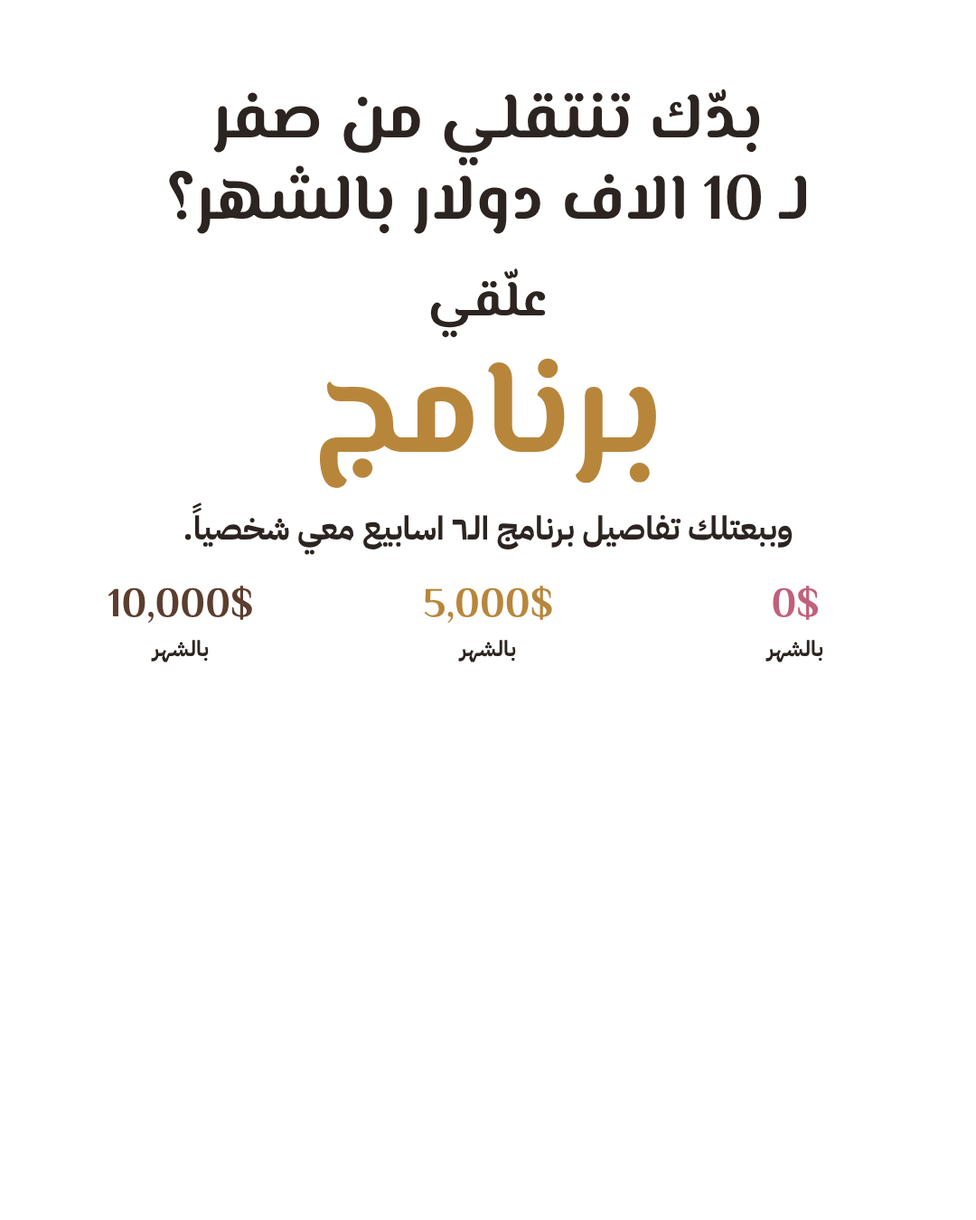
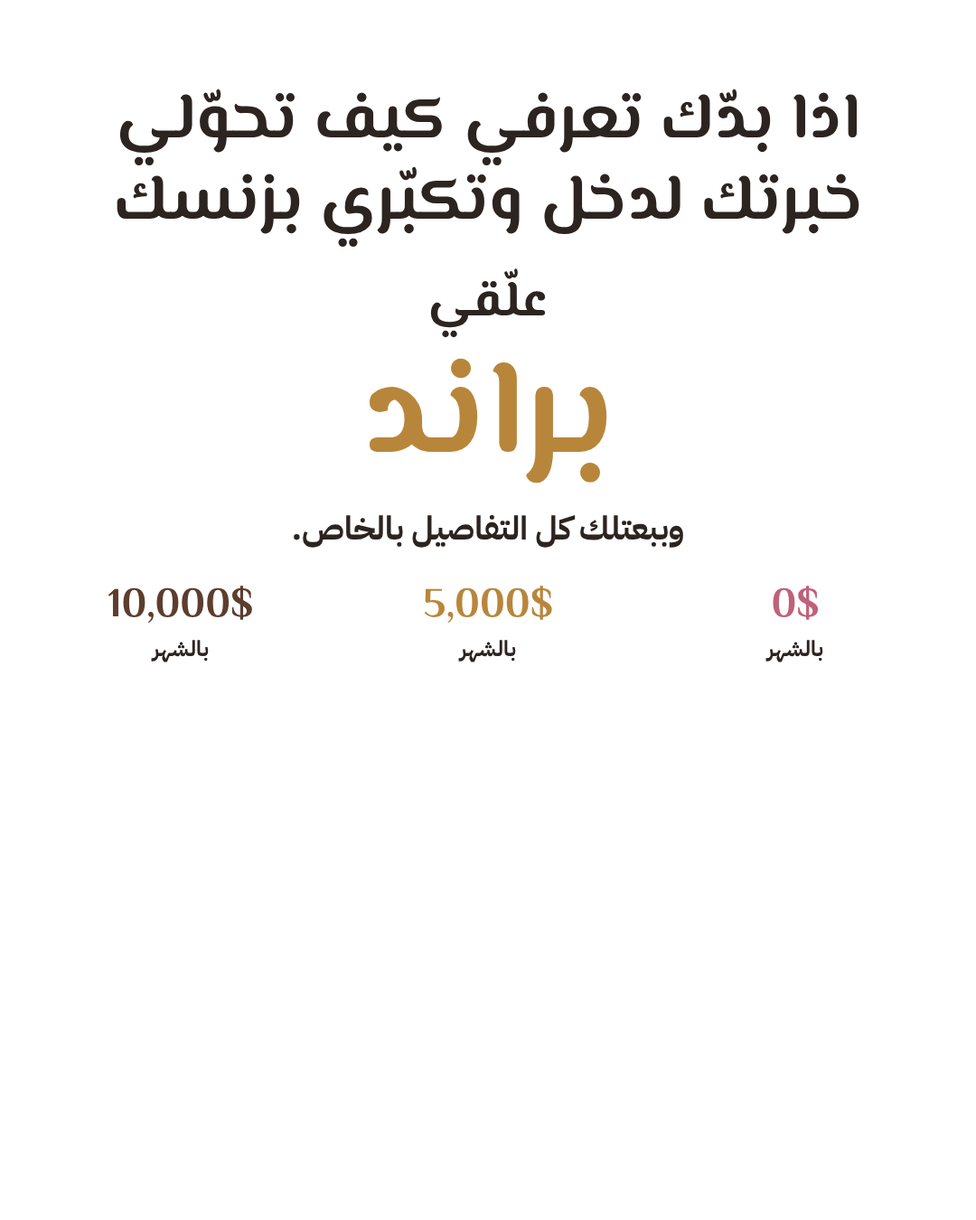
Carousel 02: new CTA with keyword براند
Claude-Session: https://claude.ai/code/session_01Q3F4hydPDiJyjfKYRyCC3U

Changed region(s): [[0.1222, 0.0622, 0.8861, 0.2178], [0.1833, 0.28, 0.825, 0.4667]]

diff --git a/carousels/02-0-5k-10k/empty/carousel.html b/carousels/02-0-5k-10k/empty/carousel.html
@@ -21,4 +21,4 @@ h1.big{font-size:100px}
 .cta1{font-size:72px}.cta2{font-family:M;font-size:56px;margin-top:22px}.kw{font-family:M;font-size:150px;color:#B8863B;line-height:1.15}
 .cta3{font-weight:700;font-size:36px;margin-top:6px}.sm{margin-top:34px}.sm .amt{font-size:46px}.sm .pm{font-size:24px}
 .cta .ppl{height:470px}
-.p img,.p b{display:none!important}</style></head><body><section class="slide cover"><h1 class="big">الفرق كلّه هون…</h1><div class="cols heads"><div class="col"><div class="amt" style="color:#C0607A">0$</div><div class="pm">بالشهر</div><i style=background:#C0607A></i></div><div class="col"><div class="amt" style="color:#B8863B">5,000$</div><div class="pm">بالشهر</div><i style=background:#B8863B></i></div><div class="col"><div class="amt" style="color:#5C3D2E">10,000$</div><div class="pm">بالشهر</div><i style=background:#5C3D2E></i></div></div><div class="cols arrows"><svg viewBox="0 0 120 110"><path d="M110 18 C70 2 25 15 22 85" fill="none" stroke="#C0607A" stroke-width="7" stroke-linecap="round"/><path d="M6 66 L22 92 L40 68" fill="none" stroke="#C0607A" stroke-width="7" stroke-linecap="round" stroke-linejoin="round"/></svg><svg viewBox="0 0 120 110"><path d="M110 18 C70 2 25 15 22 85" fill="none" stroke="#B8863B" stroke-width="7" stroke-linecap="round"/><path d="M6 66 L22 92 L40 68" fill="none" stroke="#B8863B" stroke-width="7" stroke-linecap="round" stroke-linejoin="round"/></svg><svg viewBox="0 0 120 110"><path d="M110 18 C70 2 25 15 22 85" fill="none" stroke="#5C3D2E" stroke-width="7" stroke-linecap="round"/><path d="M6 66 L22 92 L40 68" fill="none" stroke="#5C3D2E" stroke-width="7" stroke-linecap="round" stroke-linejoin="round"/></svg></div><div class="cols ppl"><div class="p"><b style="background:#F4DDE3"></b><img src="photos/tier0.png"></div><div class="p"><b style="background:#F2E4CD"></b><img src="photos/tier5k.png"></div><div class="p"><b style="background:#E8DCD4"></b><img class="big10" src="photos/tier10k.png"></div></div><p class="foot">اسحبي لتشوفي كيف بتفكّر كل وحدة ←</p></section><section class="slide row"><h1>العرض</h1><div class="cols heads"><div class="col"><div class="amt" style="color:#C0607A">0$</div><div class="pm">بالشهر</div><i style=background:#C0607A></i></div><div class="col"><div class="amt" style="color:#B8863B">5,000$</div><div class="pm">بالشهر</div><i style=background:#B8863B></i></div><div class="col"><div class="amt" style="color:#5C3D2E">10,000$</div><div class="pm">بالشهر</div><i style=background:#5C3D2E></i></div></div><div class="cols q"><p>بقدّم كل شي ببلاش، وبستحي احكي عن السعر.</p><p>عندي عرض واحد واضح لمشكلة وحدة.</p><p>عندي برنامج بنتيجة واضحة وسعر ما بعتذر عنه.</p></div><div class="cols ppl"><div class="p"><b style="background:#F4DDE3"></b><img src="photos/tier0.png"></div><div class="p"><b style="background:#F2E4CD"></b><img src="photos/tier5k.png"></div><div class="p"><b style="background:#E8DCD4"></b><img class="big10" src="photos/tier10k.png"></div></div></section><section class="slide row"><h1>المحتوى</h1><div class="cols heads"><div class="col"><div class="amt" style="color:#C0607A">0$</div><div class="pm">بالشهر</div><i style=background:#C0607A></i></div><div class="col"><div class="amt" style="color:#B8863B">5,000$</div><div class="pm">بالشهر</div><i style=background:#B8863B></i></div><div class="col"><div class="amt" style="color:#5C3D2E">10,000$</div><div class="pm">بالشهر</div><i style=background:#5C3D2E></i></div></div><div class="cols q"><p>بنشر شو ما خطر عبالي، بلا خطة.</p><p>بنشر نصايح بمجالي كل يوم.</p><p>كل منشور الو هدف: متابعة، ثقة، او بيع.</p></div><div class="cols ppl"><div class="p"><b style="background:#F4DDE3"></b><img src="photos/tier0.png"></div><div class="p"><b style="background:#F2E4CD"></b><img src="photos/tier5k.png"></div><div class="p"><b style="background:#E8DCD4"></b><img class="big10" src="photos/tier10k.png"></div></div></section><section class="slide row"><h1>الستوري</h1><div class="cols heads"><div class="col"><div class="amt" style="color:#C0607A">0$</div><div class="pm">بالشهر</div><i style=background:#C0607A></i></div><div class="col"><div class="amt" style="color:#B8863B">5,000$</div><div class="pm">بالشهر</div><i style=background:#B8863B></i></div><div class="col"><div class="amt" style="color:#5C3D2E">10,000$</div><div class="pm">بالشهر</div><i style=background:#5C3D2E></i></div></div><div class="cols q"><p>بنزّل يومياتي وبس.</p><p>بشارك نتايج عميلاتي وبجاوب على الاسئلة.</p><p>نتايج، اسئلة واجوبة، ودعوة للشراء مرتين بالاسبوع على الاقل.</p></div><div class="cols ppl"><div class="p"><b style="background:#F4DDE3"></b><img src="photos/tier0.png"></div><div class="p"><b style="background:#F2E4CD"></b><img src="photos/tier5k.png"></div><div class="p"><b style="background:#E8DCD4"></b><img class="big10" src="photos/tier10k.png"></div></div></section><section class="slide row"><h1>الرسائل بالخاص</h1><div class="cols heads"><div class="col"><div class="amt" style="color:#C0607A">0$</div><div class="pm">بالشهر</div><i style=background:#C0607A></i></div><div class="col"><div class="amt" style="color:#B8863B">5,000$</div><div class="pm">بالشهر</div><i style=background:#B8863B></i></div><div class="col"><div class="amt" style="color:#5C3D2E">10,000$</div><div class="pm">بالشهر</div><i style=background:#5C3D2E></i></div></div><div class="cols q"><p>بستنى الناس يسالوني عن السعر.</p><p>بردّ على كل رسالة بسرعة.</p><p>كلمة بالتعليقات بتفتح محادثة، وكل محادثة الها خطوات لحد البيع.</p></div><div class="cols ppl"><div class="p"><b style="background:#F4DDE3"></b><img src="photos/tier0.png"></div><div class="p"><b style="background:#F2E4CD"></b><img src="photos/tier5k.png"></div><div class="p"><b style="background:#E8DCD4"></b><img class="big10" src="photos/tier10k.png"></div></div></section><section class="slide cta"><h1 class="cta1">بدّك تنتقلي من صفر<br>لـ 10 الاف دولار بالشهر؟</h1><p class="cta2">علّقي</p><p class="kw">برنامج</p><p class="cta3">وببعتلك تفاصيل برنامج الـ٦ اسابيع معي شخصياً.</p><div class="cols heads sm"><div class="col"><div class="amt" style="color:#C0607A">0$</div><div class="pm">بالشهر</div></div><div class="col"><div class="amt" style="color:#B8863B">5,000$</div><div class="pm">بالشهر</div></div><div class="col"><div class="amt" style="color:#5C3D2E">10,000$</div><div class="pm">بالشهر</div></div></div><div class="cols ppl"><div class="p"><b style="background:#F4DDE3"></b><img src="photos/tier0.png"></div><div class="p"><b style="background:#F2E4CD"></b><img src="photos/tier5k.png"></div><div class="p"><b style="background:#E8DCD4"></b><img class="big10" src="photos/tier10k.png"></div></div></section></body></html>
+.p img,.p b{display:none!important}</style></head><body><section class="slide cover"><h1 class="big">الفرق كلّه هون…</h1><div class="cols heads"><div class="col"><div class="amt" style="color:#C0607A">0$</div><div class="pm">بالشهر</div><i style=background:#C0607A></i></div><div class="col"><div class="amt" style="color:#B8863B">5,000$</div><div class="pm">بالشهر</div><i style=background:#B8863B></i></div><div class="col"><div class="amt" style="color:#5C3D2E">10,000$</div><div class="pm">بالشهر</div><i style=background:#5C3D2E></i></div></div><div class="cols arrows"><svg viewBox="0 0 120 110"><path d="M110 18 C70 2 25 15 22 85" fill="none" stroke="#C0607A" stroke-width="7" stroke-linecap="round"/><path d="M6 66 L22 92 L40 68" fill="none" stroke="#C0607A" stroke-width="7" stroke-linecap="round" stroke-linejoin="round"/></svg><svg viewBox="0 0 120 110"><path d="M110 18 C70 2 25 15 22 85" fill="none" stroke="#B8863B" stroke-width="7" stroke-linecap="round"/><path d="M6 66 L22 92 L40 68" fill="none" stroke="#B8863B" stroke-width="7" stroke-linecap="round" stroke-linejoin="round"/></svg><svg viewBox="0 0 120 110"><path d="M110 18 C70 2 25 15 22 85" fill="none" stroke="#5C3D2E" stroke-width="7" stroke-linecap="round"/><path d="M6 66 L22 92 L40 68" fill="none" stroke="#5C3D2E" stroke-width="7" stroke-linecap="round" stroke-linejoin="round"/></svg></div><div class="cols ppl"><div class="p"><b style="background:#F4DDE3"></b><img src="photos/tier0.png"></div><div class="p"><b style="background:#F2E4CD"></b><img src="photos/tier5k.png"></div><div class="p"><b style="background:#E8DCD4"></b><img class="big10" src="photos/tier10k.png"></div></div><p class="foot">اسحبي لتشوفي كيف بتفكّر كل وحدة ←</p></section><section class="slide row"><h1>العرض</h1><div class="cols heads"><div class="col"><div class="amt" style="color:#C0607A">0$</div><div class="pm">بالشهر</div><i style=background:#C0607A></i></div><div class="col"><div class="amt" style="color:#B8863B">5,000$</div><div class="pm">بالشهر</div><i style=background:#B8863B></i></div><div class="col"><div class="amt" style="color:#5C3D2E">10,000$</div><div class="pm">بالشهر</div><i style=background:#5C3D2E></i></div></div><div class="cols q"><p>بقدّم كل شي ببلاش، وبستحي احكي عن السعر.</p><p>عندي عرض واحد واضح لمشكلة وحدة.</p><p>عندي برنامج بنتيجة واضحة وسعر ما بعتذر عنه.</p></div><div class="cols ppl"><div class="p"><b style="background:#F4DDE3"></b><img src="photos/tier0.png"></div><div class="p"><b style="background:#F2E4CD"></b><img src="photos/tier5k.png"></div><div class="p"><b style="background:#E8DCD4"></b><img class="big10" src="photos/tier10k.png"></div></div></section><section class="slide row"><h1>المحتوى</h1><div class="cols heads"><div class="col"><div class="amt" style="color:#C0607A">0$</div><div class="pm">بالشهر</div><i style=background:#C0607A></i></div><div class="col"><div class="amt" style="color:#B8863B">5,000$</div><div class="pm">بالشهر</div><i style=background:#B8863B></i></div><div class="col"><div class="amt" style="color:#5C3D2E">10,000$</div><div class="pm">بالشهر</div><i style=background:#5C3D2E></i></div></div><div class="cols q"><p>بنشر شو ما خطر عبالي، بلا خطة.</p><p>بنشر نصايح بمجالي كل يوم.</p><p>كل منشور الو هدف: متابعة، ثقة، او بيع.</p></div><div class="cols ppl"><div class="p"><b style="background:#F4DDE3"></b><img src="photos/tier0.png"></div><div class="p"><b style="background:#F2E4CD"></b><img src="photos/tier5k.png"></div><div class="p"><b style="background:#E8DCD4"></b><img class="big10" src="photos/tier10k.png"></div></div></section><section class="slide row"><h1>الستوري</h1><div class="cols heads"><div class="col"><div class="amt" style="color:#C0607A">0$</div><div class="pm">بالشهر</div><i style=background:#C0607A></i></div><div class="col"><div class="amt" style="color:#B8863B">5,000$</div><div class="pm">بالشهر</div><i style=background:#B8863B></i></div><div class="col"><div class="amt" style="color:#5C3D2E">10,000$</div><div class="pm">بالشهر</div><i style=background:#5C3D2E></i></div></div><div class="cols q"><p>بنزّل يومياتي وبس.</p><p>بشارك نتايج عميلاتي وبجاوب على الاسئلة.</p><p>نتايج، اسئلة واجوبة، ودعوة للشراء مرتين بالاسبوع على الاقل.</p></div><div class="cols ppl"><div class="p"><b style="background:#F4DDE3"></b><img src="photos/tier0.png"></div><div class="p"><b style="background:#F2E4CD"></b><img src="photos/tier5k.png"></div><div class="p"><b style="background:#E8DCD4"></b><img class="big10" src="photos/tier10k.png"></div></div></section><section class="slide row"><h1>الرسائل بالخاص</h1><div class="cols heads"><div class="col"><div class="amt" style="color:#C0607A">0$</div><div class="pm">بالشهر</div><i style=background:#C0607A></i></div><div class="col"><div class="amt" style="color:#B8863B">5,000$</div><div class="pm">بالشهر</div><i style=background:#B8863B></i></div><div class="col"><div class="amt" style="color:#5C3D2E">10,000$</div><div class="pm">بالشهر</div><i style=background:#5C3D2E></i></div></div><div class="cols q"><p>بستنى الناس يسالوني عن السعر.</p><p>بردّ على كل رسالة بسرعة.</p><p>كلمة بالتعليقات بتفتح محادثة، وكل محادثة الها خطوات لحد البيع.</p></div><div class="cols ppl"><div class="p"><b style="background:#F4DDE3"></b><img src="photos/tier0.png"></div><div class="p"><b style="background:#F2E4CD"></b><img src="photos/tier5k.png"></div><div class="p"><b style="background:#E8DCD4"></b><img class="big10" src="photos/tier10k.png"></div></div></section><section class="slide cta"><h1 class="cta1">اذا بدّك تعرفي كيف تحوّلي<br>خبرتك لدخل وتكبّري بزنسك</h1><p class="cta2">علّقي</p><p class="kw">براند</p><p class="cta3">وببعتلك كل التفاصيل بالخاص.</p><div class="cols heads sm"><div class="col"><div class="amt" style="color:#C0607A">0$</div><div class="pm">بالشهر</div></div><div class="col"><div class="amt" style="color:#B8863B">5,000$</div><div class="pm">بالشهر</div></div><div class="col"><div class="amt" style="color:#5C3D2E">10,000$</div><div class="pm">بالشهر</div></div></div><div class="cols ppl"><div class="p"><b style="background:#F4DDE3"></b><img src="photos/tier0.png"></div><div class="p"><b style="background:#F2E4CD"></b><img src="photos/tier5k.png"></div><div class="p"><b style="background:#E8DCD4"></b><img class="big10" src="photos/tier10k.png"></div></div></section></body></html>

diff --git a/carousels/02-0-5k-10k/carousel.html b/carousels/02-0-5k-10k/carousel.html
@@ -21,4 +21,4 @@ h1.big{font-size:100px}
 .cta1{font-size:72px}.cta2{font-family:M;font-size:56px;margin-top:22px}.kw{font-family:M;font-size:150px;color:#B8863B;line-height:1.15}
 .cta3{font-weight:700;font-size:36px;margin-top:6px}.sm{margin-top:34px}.sm .amt{font-size:46px}.sm .pm{font-size:24px}
 .cta .ppl{height:470px}
-</style></head><body><section class="slide cover"><h1 class="big">الفرق كلّه هون…</h1><div class="cols heads"><div class="col"><div class="amt" style="color:#C0607A">0$</div><div class="pm">بالشهر</div><i style=background:#C0607A></i></div><div class="col"><div class="amt" style="color:#B8863B">5,000$</div><div class="pm">بالشهر</div><i style=background:#B8863B></i></div><div class="col"><div class="amt" style="color:#5C3D2E">10,000$</div><div class="pm">بالشهر</div><i style=background:#5C3D2E></i></div></div><div class="cols arrows"><svg viewBox="0 0 120 110"><path d="M110 18 C70 2 25 15 22 85" fill="none" stroke="#C0607A" stroke-width="7" stroke-linecap="round"/><path d="M6 66 L22 92 L40 68" fill="none" stroke="#C0607A" stroke-width="7" stroke-linecap="round" stroke-linejoin="round"/></svg><svg viewBox="0 0 120 110"><path d="M110 18 C70 2 25 15 22 85" fill="none" stroke="#B8863B" stroke-width="7" stroke-linecap="round"/><path d="M6 66 L22 92 L40 68" fill="none" stroke="#B8863B" stroke-width="7" stroke-linecap="round" stroke-linejoin="round"/></svg><svg viewBox="0 0 120 110"><path d="M110 18 C70 2 25 15 22 85" fill="none" stroke="#5C3D2E" stroke-width="7" stroke-linecap="round"/><path d="M6 66 L22 92 L40 68" fill="none" stroke="#5C3D2E" stroke-width="7" stroke-linecap="round" stroke-linejoin="round"/></svg></div><div class="cols ppl"><div class="p"><b style="background:#F4DDE3"></b><img src="photos/tier0.png"></div><div class="p"><b style="background:#F2E4CD"></b><img src="photos/tier5k.png"></div><div class="p"><b style="background:#E8DCD4"></b><img class="big10" src="photos/tier10k.png"></div></div><p class="foot">اسحبي لتشوفي كيف بتفكّر كل وحدة ←</p></section><section class="slide row"><h1>العرض</h1><div class="cols heads"><div class="col"><div class="amt" style="color:#C0607A">0$</div><div class="pm">بالشهر</div><i style=background:#C0607A></i></div><div class="col"><div class="amt" style="color:#B8863B">5,000$</div><div class="pm">بالشهر</div><i style=background:#B8863B></i></div><div class="col"><div class="amt" style="color:#5C3D2E">10,000$</div><div class="pm">بالشهر</div><i style=background:#5C3D2E></i></div></div><div class="cols q"><p>بقدّم كل شي ببلاش، وبستحي احكي عن السعر.</p><p>عندي عرض واحد واضح لمشكلة وحدة.</p><p>عندي برنامج بنتيجة واضحة وسعر ما بعتذر عنه.</p></div><div class="cols ppl"><div class="p"><b style="background:#F4DDE3"></b><img src="photos/tier0.png"></div><div class="p"><b style="background:#F2E4CD"></b><img src="photos/tier5k.png"></div><div class="p"><b style="background:#E8DCD4"></b><img class="big10" src="photos/tier10k.png"></div></div></section><section class="slide row"><h1>المحتوى</h1><div class="cols heads"><div class="col"><div class="amt" style="color:#C0607A">0$</div><div class="pm">بالشهر</div><i style=background:#C0607A></i></div><div class="col"><div class="amt" style="color:#B8863B">5,000$</div><div class="pm">بالشهر</div><i style=background:#B8863B></i></div><div class="col"><div class="amt" style="color:#5C3D2E">10,000$</div><div class="pm">بالشهر</div><i style=background:#5C3D2E></i></div></div><div class="cols q"><p>بنشر شو ما خطر عبالي، بلا خطة.</p><p>بنشر نصايح بمجالي كل يوم.</p><p>كل منشور الو هدف: متابعة، ثقة، او بيع.</p></div><div class="cols ppl"><div class="p"><b style="background:#F4DDE3"></b><img src="photos/tier0.png"></div><div class="p"><b style="background:#F2E4CD"></b><img src="photos/tier5k.png"></div><div class="p"><b style="background:#E8DCD4"></b><img class="big10" src="photos/tier10k.png"></div></div></section><section class="slide row"><h1>الستوري</h1><div class="cols heads"><div class="col"><div class="amt" style="color:#C0607A">0$</div><div class="pm">بالشهر</div><i style=background:#C0607A></i></div><div class="col"><div class="amt" style="color:#B8863B">5,000$</div><div class="pm">بالشهر</div><i style=background:#B8863B></i></div><div class="col"><div class="amt" style="color:#5C3D2E">10,000$</div><div class="pm">بالشهر</div><i style=background:#5C3D2E></i></div></div><div class="cols q"><p>بنزّل يومياتي وبس.</p><p>بشارك نتايج عميلاتي وبجاوب على الاسئلة.</p><p>نتايج، اسئلة واجوبة، ودعوة للشراء مرتين بالاسبوع على الاقل.</p></div><div class="cols ppl"><div class="p"><b style="background:#F4DDE3"></b><img src="photos/tier0.png"></div><div class="p"><b style="background:#F2E4CD"></b><img src="photos/tier5k.png"></div><div class="p"><b style="background:#E8DCD4"></b><img class="big10" src="photos/tier10k.png"></div></div></section><section class="slide row"><h1>الرسائل بالخاص</h1><div class="cols heads"><div class="col"><div class="amt" style="color:#C0607A">0$</div><div class="pm">بالشهر</div><i style=background:#C0607A></i></div><div class="col"><div class="amt" style="color:#B8863B">5,000$</div><div class="pm">بالشهر</div><i style=background:#B8863B></i></div><div class="col"><div class="amt" style="color:#5C3D2E">10,000$</div><div class="pm">بالشهر</div><i style=background:#5C3D2E></i></div></div><div class="cols q"><p>بستنى الناس يسالوني عن السعر.</p><p>بردّ على كل رسالة بسرعة.</p><p>كلمة بالتعليقات بتفتح محادثة، وكل محادثة الها خطوات لحد البيع.</p></div><div class="cols ppl"><div class="p"><b style="background:#F4DDE3"></b><img src="photos/tier0.png"></div><div class="p"><b style="background:#F2E4CD"></b><img src="photos/tier5k.png"></div><div class="p"><b style="background:#E8DCD4"></b><img class="big10" src="photos/tier10k.png"></div></div></section><section class="slide cta"><h1 class="cta1">بدّك تنتقلي من صفر<br>لـ 10 الاف دولار بالشهر؟</h1><p class="cta2">علّقي</p><p class="kw">برنامج</p><p class="cta3">وببعتلك تفاصيل برنامج الـ٦ اسابيع معي شخصياً.</p><div class="cols heads sm"><div class="col"><div class="amt" style="color:#C0607A">0$</div><div class="pm">بالشهر</div></div><div class="col"><div class="amt" style="color:#B8863B">5,000$</div><div class="pm">بالشهر</div></div><div class="col"><div class="amt" style="color:#5C3D2E">10,000$</div><div class="pm">بالشهر</div></div></div><div class="cols ppl"><div class="p"><b style="background:#F4DDE3"></b><img src="photos/tier0.png"></div><div class="p"><b style="background:#F2E4CD"></b><img src="photos/tier5k.png"></div><div class="p"><b style="background:#E8DCD4"></b><img class="big10" src="photos/tier10k.png"></div></div></section></body></html>
+</style></head><body><section class="slide cover"><h1 class="big">الفرق كلّه هون…</h1><div class="cols heads"><div class="col"><div class="amt" style="color:#C0607A">0$</div><div class="pm">بالشهر</div><i style=background:#C0607A></i></div><div class="col"><div class="amt" style="color:#B8863B">5,000$</div><div class="pm">بالشهر</div><i style=background:#B8863B></i></div><div class="col"><div class="amt" style="color:#5C3D2E">10,000$</div><div class="pm">بالشهر</div><i style=background:#5C3D2E></i></div></div><div class="cols arrows"><svg viewBox="0 0 120 110"><path d="M110 18 C70 2 25 15 22 85" fill="none" stroke="#C0607A" stroke-width="7" stroke-linecap="round"/><path d="M6 66 L22 92 L40 68" fill="none" stroke="#C0607A" stroke-width="7" stroke-linecap="round" stroke-linejoin="round"/></svg><svg viewBox="0 0 120 110"><path d="M110 18 C70 2 25 15 22 85" fill="none" stroke="#B8863B" stroke-width="7" stroke-linecap="round"/><path d="M6 66 L22 92 L40 68" fill="none" stroke="#B8863B" stroke-width="7" stroke-linecap="round" stroke-linejoin="round"/></svg><svg viewBox="0 0 120 110"><path d="M110 18 C70 2 25 15 22 85" fill="none" stroke="#5C3D2E" stroke-width="7" stroke-linecap="round"/><path d="M6 66 L22 92 L40 68" fill="none" stroke="#5C3D2E" stroke-width="7" stroke-linecap="round" stroke-linejoin="round"/></svg></div><div class="cols ppl"><div class="p"><b style="background:#F4DDE3"></b><img src="photos/tier0.png"></div><div class="p"><b style="background:#F2E4CD"></b><img src="photos/tier5k.png"></div><div class="p"><b style="background:#E8DCD4"></b><img class="big10" src="photos/tier10k.png"></div></div><p class="foot">اسحبي لتشوفي كيف بتفكّر كل وحدة ←</p></section><section class="slide row"><h1>العرض</h1><div class="cols heads"><div class="col"><div class="amt" style="color:#C0607A">0$</div><div class="pm">بالشهر</div><i style=background:#C0607A></i></div><div class="col"><div class="amt" style="color:#B8863B">5,000$</div><div class="pm">بالشهر</div><i style=background:#B8863B></i></div><div class="col"><div class="amt" style="color:#5C3D2E">10,000$</div><div class="pm">بالشهر</div><i style=background:#5C3D2E></i></div></div><div class="cols q"><p>بقدّم كل شي ببلاش، وبستحي احكي عن السعر.</p><p>عندي عرض واحد واضح لمشكلة وحدة.</p><p>عندي برنامج بنتيجة واضحة وسعر ما بعتذر عنه.</p></div><div class="cols ppl"><div class="p"><b style="background:#F4DDE3"></b><img src="photos/tier0.png"></div><div class="p"><b style="background:#F2E4CD"></b><img src="photos/tier5k.png"></div><div class="p"><b style="background:#E8DCD4"></b><img class="big10" src="photos/tier10k.png"></div></div></section><section class="slide row"><h1>المحتوى</h1><div class="cols heads"><div class="col"><div class="amt" style="color:#C0607A">0$</div><div class="pm">بالشهر</div><i style=background:#C0607A></i></div><div class="col"><div class="amt" style="color:#B8863B">5,000$</div><div class="pm">بالشهر</div><i style=background:#B8863B></i></div><div class="col"><div class="amt" style="color:#5C3D2E">10,000$</div><div class="pm">بالشهر</div><i style=background:#5C3D2E></i></div></div><div class="cols q"><p>بنشر شو ما خطر عبالي، بلا خطة.</p><p>بنشر نصايح بمجالي كل يوم.</p><p>كل منشور الو هدف: متابعة، ثقة، او بيع.</p></div><div class="cols ppl"><div class="p"><b style="background:#F4DDE3"></b><img src="photos/tier0.png"></div><div class="p"><b style="background:#F2E4CD"></b><img src="photos/tier5k.png"></div><div class="p"><b style="background:#E8DCD4"></b><img class="big10" src="photos/tier10k.png"></div></div></section><section class="slide row"><h1>الستوري</h1><div class="cols heads"><div class="col"><div class="amt" style="color:#C0607A">0$</div><div class="pm">بالشهر</div><i style=background:#C0607A></i></div><div class="col"><div class="amt" style="color:#B8863B">5,000$</div><div class="pm">بالشهر</div><i style=background:#B8863B></i></div><div class="col"><div class="amt" style="color:#5C3D2E">10,000$</div><div class="pm">بالشهر</div><i style=background:#5C3D2E></i></div></div><div class="cols q"><p>بنزّل يومياتي وبس.</p><p>بشارك نتايج عميلاتي وبجاوب على الاسئلة.</p><p>نتايج، اسئلة واجوبة، ودعوة للشراء مرتين بالاسبوع على الاقل.</p></div><div class="cols ppl"><div class="p"><b style="background:#F4DDE3"></b><img src="photos/tier0.png"></div><div class="p"><b style="background:#F2E4CD"></b><img src="photos/tier5k.png"></div><div class="p"><b style="background:#E8DCD4"></b><img class="big10" src="photos/tier10k.png"></div></div></section><section class="slide row"><h1>الرسائل بالخاص</h1><div class="cols heads"><div class="col"><div class="amt" style="color:#C0607A">0$</div><div class="pm">بالشهر</div><i style=background:#C0607A></i></div><div class="col"><div class="amt" style="color:#B8863B">5,000$</div><div class="pm">بالشهر</div><i style=background:#B8863B></i></div><div class="col"><div class="amt" style="color:#5C3D2E">10,000$</div><div class="pm">بالشهر</div><i style=background:#5C3D2E></i></div></div><div class="cols q"><p>بستنى الناس يسالوني عن السعر.</p><p>بردّ على كل رسالة بسرعة.</p><p>كلمة بالتعليقات بتفتح محادثة، وكل محادثة الها خطوات لحد البيع.</p></div><div class="cols ppl"><div class="p"><b style="background:#F4DDE3"></b><img src="photos/tier0.png"></div><div class="p"><b style="background:#F2E4CD"></b><img src="photos/tier5k.png"></div><div class="p"><b style="background:#E8DCD4"></b><img class="big10" src="photos/tier10k.png"></div></div></section><section class="slide cta"><h1 class="cta1">اذا بدّك تعرفي كيف تحوّلي<br>خبرتك لدخل وتكبّري بزنسك</h1><p class="cta2">علّقي</p><p class="kw">براند</p><p class="cta3">وببعتلك كل التفاصيل بالخاص.</p><div class="cols heads sm"><div class="col"><div class="amt" style="color:#C0607A">0$</div><div class="pm">بالشهر</div></div><div class="col"><div class="amt" style="color:#B8863B">5,000$</div><div class="pm">بالشهر</div></div><div class="col"><div class="amt" style="color:#5C3D2E">10,000$</div><div class="pm">بالشهر</div></div></div><div class="cols ppl"><div class="p"><b style="background:#F4DDE3"></b><img src="photos/tier0.png"></div><div class="p"><b style="background:#F2E4CD"></b><img src="photos/tier5k.png"></div><div class="p"><b style="background:#E8DCD4"></b><img class="big10" src="photos/tier10k.png"></div></div></section></body></html>

diff --git a/brand/brand-guide.md b/brand/brand-guide.md
@@ -33,5 +33,5 @@ Lessons:
 - Fonts (chosen: option B): titles = El Messiri 700 (~92px); body = IBM Plex Sans Arabic 500 (~60px). White, heavy dark shadow, centered. Text never on the face.
 - One red-orange (#FF4A2E) accent phrase per slide. No brand bar, no counters (Instagram shows its own).
 - Render: `node tools/render.js <carousel-folder>`. Source template: carousels/01-expertise-no-clients/carousel.html
-- Offer: 6-week paid program with private 1:1 coaching. CTA keyword: «برنامج».
+- Offer: 6-week paid program with private 1:1 coaching. CTA keyword: «براند» (اذا بدّك تعرفي كيف تحوّلي خبرتك لدخل وتكبّري بزنسك، علّقي براند).
 - Best posting time: Sun–Tue 18:00–21:00 CET.
